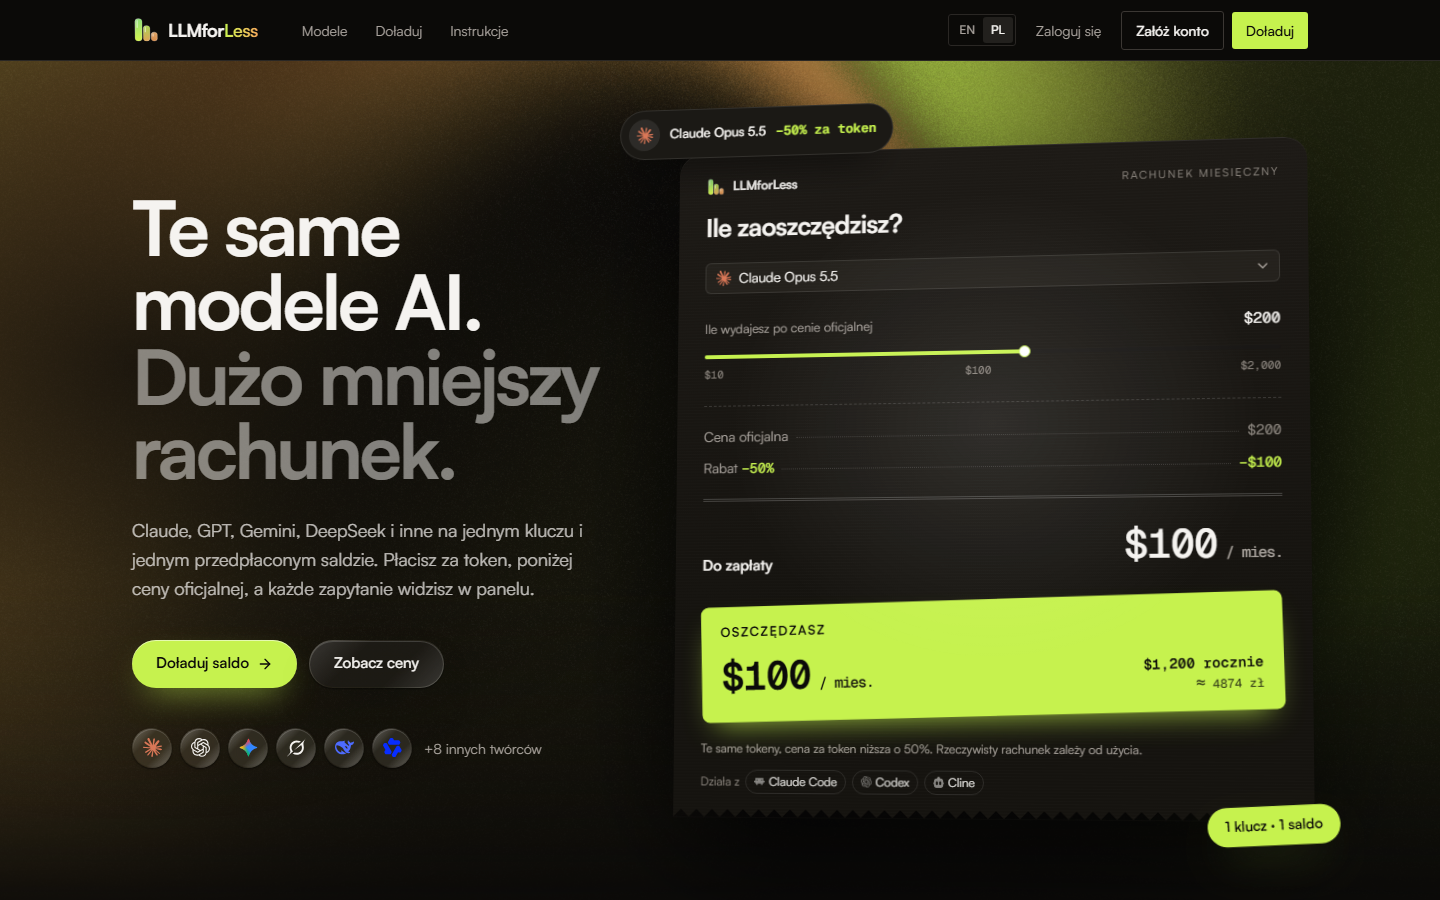
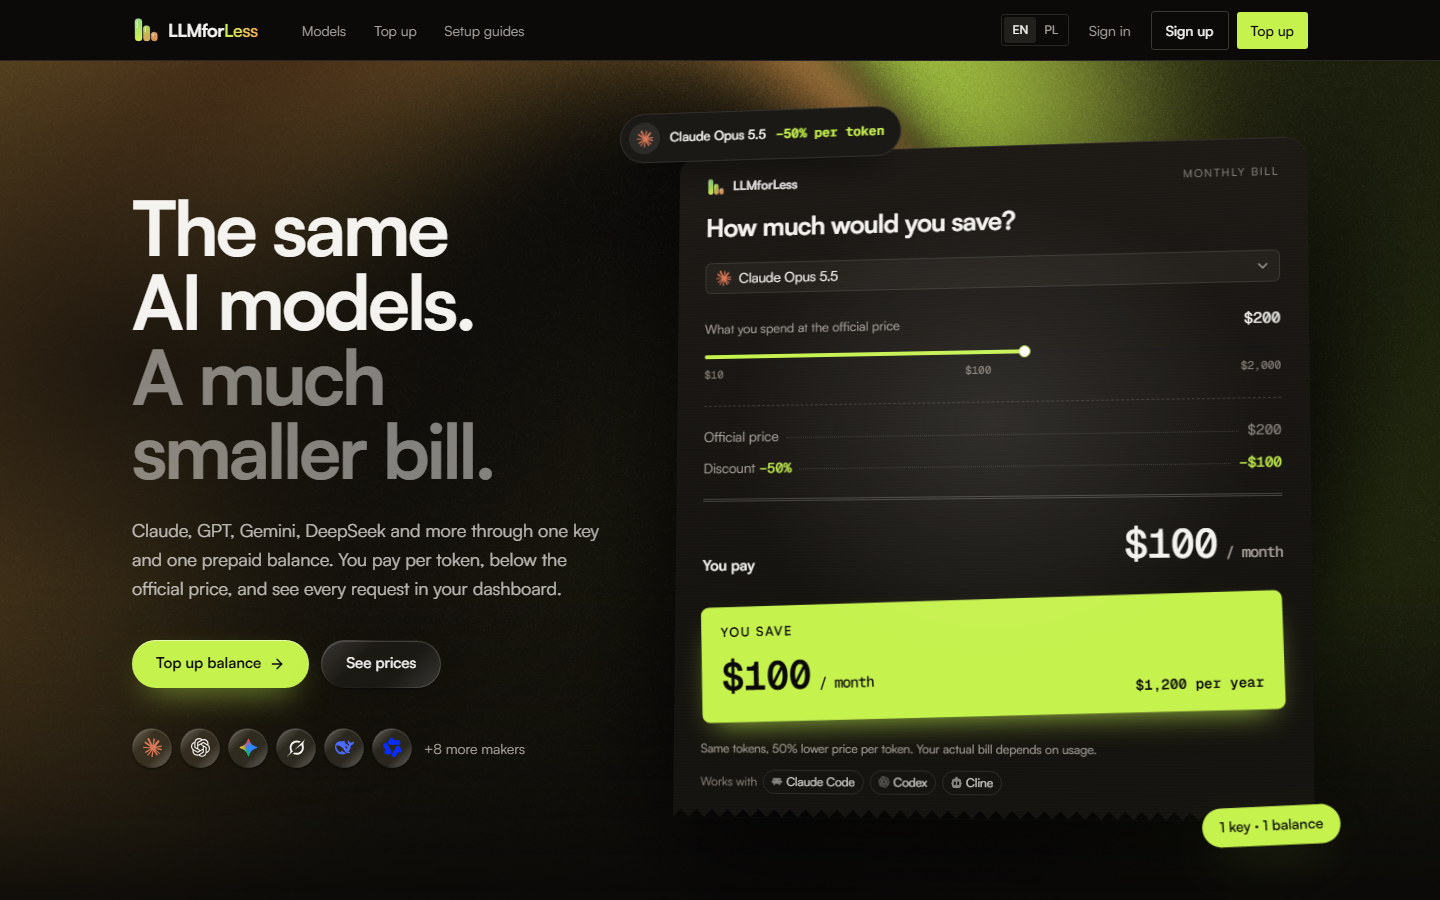
README in English

diff --git a/README.md b/README.md
@@ -1,82 +1,80 @@
-# LLMforLess: jedno API do modeli AI, taniej niż oficjalne cenniki
+# LLMforLess: one API for AI models, cheaper than list prices
 
-> **TL;DR (EN):** LLMforLess: one OpenAI-compatible API for ~190 models from ~12 cheaper providers, up to 80-90% below list prices. Next.js, TypeScript, PostgreSQL, new-api gateway, Docker, Caddy, CI/CD for staging and production. Work in progress, the product code is private.
-
-**Integrator tańszych dostawców API: ok. 12 dostawców i ok. 190 modeli pod jednym kluczem, nawet 80-90% taniej niż oficjalne ceny.**
+**An aggregator of cheaper API providers: ~12 providers and ~190 models behind one key, up to 80-90% below official prices.**
 Next.js · TypeScript · PostgreSQL · Drizzle ORM · new-api · Docker · Caddy · GitHub Actions
 
-> Status: **w trakcie kończenia.** Wersja testowa działa pod [staging.llmforless.com](https://staging.llmforless.com/pl). Ceny na stronie są przykładowe.
-> Kod jest w prywatnym repozytorium (produkt komercyjny). Mogę go pokazać na rozmowie.
+> Status: **being finished.** The test version runs at [staging.llmforless.com](https://staging.llmforless.com/en). Prices on the site are placeholders.
+> The code is in a private repository (commercial product). I can walk through it in an interview.
 
-![Strona główna](screenshots/01-strona-glowna.png)
+![Home page](screenshots/01-strona-glowna.png)
 
-## Skąd pomysł
+## Why I built it
 
-Przy moich automatyzacjach (agenci AI, generator stron, outreach) zużywam bardzo dużo tokenów miesięcznie. Zamiast płacić pełne ceny u każdego dostawcy osobno, połączyłem tańszych dostawców API w jedną bramkę z jednym saldem. Najpierw na własny użytek, teraz buduję wokół tego sklep dla innych programistów.
+My automations (AI agents, the website generator, outreach) use a lot of tokens every month. Instead of paying full price at each provider separately, I combined cheaper API providers into one gateway with a single balance. First for my own use; now I am building a shop around it for other developers.
 
-## Co dostaje klient
+## What the customer gets
 
-- **Jeden klucz API do wszystkich modeli**: Claude, GPT, Gemini, Grok, DeepSeek, Qwen, GLM, Kimi, MiniMax, Llama, Seedance i inne.
-- **Działa z narzędziami, których ludzie już używają**: Claude Code (natywne Anthropic Messages), Codex (OpenAI Responses), Cursor, Cline i wszystko, co mówi OpenAI Chat Completions.
-- **Jedno przedpłacone saldo**, rozliczane za token, z ceną pokazaną obok oficjalnej.
-- **Log każdego zapytania**: tokeny, cache, koszt, widoczne w panelu.
-- **Instrukcje konfiguracji** krok po kroku dla każdego narzędzia (dla osób, które nigdy nie ustawiały base URL).
-- **Faktura VAT** na żądanie, ceny w USD z przeliczeniem na PLN.
+- **One API key for every model**: Claude, GPT, Gemini, Grok, DeepSeek, Qwen, GLM, Kimi, MiniMax, Llama, Seedance and more.
+- **Works with the tools people already use**: Claude Code (native Anthropic Messages), Codex (OpenAI Responses), Cursor, Cline and anything that speaks OpenAI Chat Completions.
+- **One prepaid balance**, billed per token, with the price shown next to the official one.
+- **A log of every request**: tokens, cache, cost, visible in the dashboard.
+- **Step-by-step setup guides** for each tool (for people who have never set a base URL).
+- **VAT invoices** on request; prices in USD with a PLN conversion.
 
-| Katalog modeli | Strona zakupu |
+| Model catalogue | Purchase page |
 |---|---|
-| ![Modele](screenshots/02-modele.png) | ![Zakup](screenshots/03-zakup-claude.png) |
+| ![Models](screenshots/02-modele.png) | ![Purchase](screenshots/03-zakup-claude.png) |
 
-## Architektura
+## Architecture
 
 ```mermaid
 flowchart LR
-    K[Klient\nClaude Code, Codex, Cursor, własny kod] -->|klucz API| G[api.domena/v1\nbramka new-api]
-    G --> D1[Dostawca 1]
-    G --> D2[Dostawca 2]
-    G --> D3[Dostawca N]
-    S[Sklep i panel\nNext.js] <--> DB[(PostgreSQL)]
-    S <-->|klucze, saldo, logi| G
-    P[Płatności\nkrypto, przelew] --> S
+    K[Customer\nClaude Code, Codex, Cursor, own code] -->|API key| G[api.domain/v1\nnew-api gateway]
+    G --> D1[Provider 1]
+    G --> D2[Provider 2]
+    G --> D3[Provider N]
+    S[Shop and dashboard\nNext.js] <--> DB[(PostgreSQL)]
+    S <-->|keys, balance, logs| G
+    P[Payments\ncrypto, bank transfer] --> S
 ```
 
-- **Sklep i panel**: Next.js (App Router), TypeScript, Drizzle ORM, PostgreSQL, logowanie przez better-auth, dwa języki (PL / EN).
-- **Bramka**: self-hosted new-api za sklepem. Klient nigdy nie widzi jej panelu, a sklep zarządza kluczami, saldem i cennikiem przez jej API.
-- **Routing i zapasowi dostawcy**: każdy model ma kilka tras z priorytetami. Gdy trasa przestaje działać, bramka przełącza ruch na następną.
-- **Testy dostawców**: skrypt sondujący sprawdza każdą trasę (streaming, tool use, cache promptów, ukryte prompty doklejane przez dostawcę, koszt) i na tej podstawie ustalam priorytety tras.
-- **Synchronizacja cen**: ceny oficjalne i rabat ustawiany globalnie albo per model, przeliczane automatycznie.
-- **Płatności**: kryptowaluty (NOWPayments) i przelew; vouchery na doładowanie.
+- **Shop and dashboard**: Next.js (App Router), TypeScript, Drizzle ORM, PostgreSQL, authentication with better-auth, two languages (EN / PL).
+- **Gateway**: self-hosted new-api behind the shop. Customers never see its panel; the shop manages keys, balances and pricing through its API.
+- **Routing and fallback providers**: every model has several prioritised routes. When a route stops working, the gateway switches traffic to the next one.
+- **Provider tests**: a probing script checks every route (streaming, tool use, prompt caching, hidden prompts injected by the provider, cost), and route priorities are set from the results.
+- **Price sync**: official prices and a discount set globally or per model, recalculated automatically.
+- **Payments**: cryptocurrencies (NOWPayments) and bank transfer; top-up vouchers.
 
-## Panel klienta i panel administratora
+## Customer dashboard and admin panel
 
-- **Klient**: przegląd salda, klucze API, zużycie i wykresy kosztów, log zapytań, gotowa konfiguracja dla narzędzi, playground do testowania modeli, zamówienia i faktury.
-- **Administrator**: klienci, zamówienia, cennik (rabat per model), dostawcy i ich salda, partie voucherów, ustawienia sklepu.
+- **Customer**: balance overview, API keys, usage and cost charts, request log, ready-made configuration for tools, a playground for testing models, orders and invoices.
+- **Admin**: customers, orders, pricing (discount per model), providers and their balances, voucher batches, shop settings.
 
-Zrzuty z lokalnej wersji na kontach testowych:
+Screenshots from the local version on test accounts (dashboard in Polish):
 
-| Klucze API | Zużycie i koszty |
+| API keys | Usage and costs |
 |---|---|
-| ![Klucze API](screenshots/07-klucze-api.png) | ![Zużycie](screenshots/08-zuzycie.png) |
+| ![API keys](screenshots/07-klucze-api.png) | ![Usage](screenshots/08-zuzycie.png) |
 
-| Gotowa konfiguracja dla Claude Code, Codex, cURL, Python, TypeScript | Panel właściciela: modele i ceny |
+| Ready-made config for Claude Code, Codex, cURL, Python, TypeScript | Admin panel: models and prices |
 |---|---|
-| ![Podłączenie](screenshots/10-konfiguracja-narzedzi.png) | ![Admin: ceny](screenshots/13-admin-ceny.png) |
+| ![Setup](screenshots/10-konfiguracja-narzedzi.png) | ![Admin: prices](screenshots/13-admin-ceny.png) |
 
-| Panel właściciela: zamówienia (przelewy potwierdzane ręcznie, krypto automatycznie) |
+| Admin panel: orders (bank transfers confirmed manually, crypto automatically) |
 |---|
-| ![Admin: zamówienia](screenshots/14-admin-zamowienia.png) |
+| ![Admin: orders](screenshots/14-admin-zamowienia.png) |
 
-## Wdrożenie
+## Deployment
 
-- Cały system na jednym VPS w Dockerze: sklep, bramka, baza, playground i Caddy z automatycznym HTTPS.
-- Osobne adresy: sklep, `api.` dla klientów (tylko ścieżki `/v1/*`), `chat.` dla playgroundu; panel bramki dostępny tylko przez tunel SSH.
-- **CI/CD w GitHub Actions**: osobny workflow dla stagingu i produkcji, wdrożenie po SSH z kluczem trzymanym w GitHub Secrets.
-- Testy jednostkowe (Vitest) dla katalogu modeli i cennika.
+- The whole system runs on one VPS in Docker: shop, gateway, database, playground and Caddy with automatic HTTPS.
+- Separate hostnames: the shop, `api.` for customers (only `/v1/*` paths), `chat.` for the playground; the gateway panel is reachable only through an SSH tunnel.
+- **CI/CD in GitHub Actions**: separate workflows for staging and production, deployment over SSH with the key stored in GitHub Secrets.
+- Unit tests (Vitest) for the model catalogue and pricing.
 
-## Wersja mobilna
+## Mobile version
 
-<img src="screenshots/05-mobile.png" width="300" alt="Wersja mobilna">
+<img src="screenshots/05-mobile.png" width="300" alt="Mobile version">
 
 ---
 
-**Autor:** Patryk Olech, AI Automation & GTM Engineer · [inne projekty](https://github.com/patrykolech)
+**Author:** Patryk Olech, AI Automation & GTM Engineer · [more projects](https://github.com/patrykolech)
